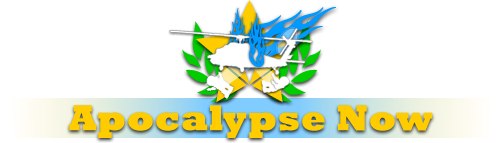
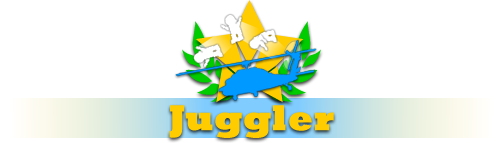
* Juggler: Grafik und Beschreibung eingefügt. * Script gesäubert.

Changed region(s): [[0.1195, 0.7273, 0.8665, 1.0], [0.3287, 0.0559, 0.6873, 0.7273]]

diff --git a/ModernCombatFINALTRY.c4d/Vehicles.c4d/BlackHawk.c4d/Script.c b/ModernCombatFINALTRY.c4d/Vehicles.c4d/BlackHawk.c4d/Script.c
@@ -1632,7 +1632,7 @@ protected func TimerCall()
     {
       if(GetOwner(pClonk) != NO_OWNER && GetOwner() != NO_OWNER && !Hostile(GetOwner(), GetOwner(pClonk)))
         continue;
-      
+
       var rotoreffect = GetEffect("RotorHit", pClonk);
 
       if(rotoreffect && EffectVar(0, pClonk, rotoreffect))
@@ -1658,14 +1658,14 @@ protected func TimerCall()
       Sound("BKHK_RotorHit*.ogg", false, pClonk);
       //Cooldown
       if(!rotoreffect)
-        AddEffect("RotorHit", pClonk, 1, 20, this, GetID(this)); 
+        AddEffect("RotorHit", pClonk, 1, 20, this, GetID(this));
       else
       {
-	EffectVar(0, pClonk, rotoreffect) = 1;
-	EffectVar(1, pClonk, rotoreffect)++;
+        EffectVar(0, pClonk, rotoreffect) = 1;
+        EffectVar(1, pClonk, rotoreffect)++;
 
-	//Achievement-Fortschritt (Juggler)
-	if(EffectVar(1, pClonk, rotoreffect) >= 3)
+        //Achievement-Fortschritt (Juggler)
+        if(EffectVar(1, pClonk, rotoreffect) >= 3)
           if(GetPilot() && (pClonk->~IsClonk()))
             DoAchievementProgress(1, AC58, GetController(GetPilot()));
       }
@@ -1738,13 +1738,15 @@ protected func TimerCall()
   }
 }
 
-public func FxRotorHitStart(object pTarget, int iEffectNumber) {
+public func FxRotorHitStart(object pTarget, int iEffectNumber)
+{
   EffectVar(0, pTarget, iEffectNumber) = 1; // Cooldown
   EffectVar(1, pTarget, iEffectNumber) = 1; // Number of rotor hits
   return 1;
 }
 
-public func FxRotorHitTimer(object pTarget, int iEffectNumber, int iEffectTime) {
+public func FxRotorHitTimer(object pTarget, int iEffectNumber, int iEffectTime)
+{
   EffectVar(0, pTarget, iEffectNumber) = 0;
   if(!pTarget || !(pTarget->~IsClonk()))
     return -1;

diff --git a/ModernCombatFINALTRY.c4d/System.c4g/Overload-Fading.c b/ModernCombatFINALTRY.c4d/System.c4g/Overload-Fading.c
@@ -1,16 +1,16 @@
 /* Fade-Effekte */
 
-//Verbesserter Einblendeffekt.
+//Verbesserte Ein- und Ausblendeffekte.
 
 #strict 2
 
 
-/* Jetzt wirklich keinen Frame sichtbar */
-
-global func FadeIn(object pObject, int level) {
+global func FadeIn(object pObject, int level)
+{
   return FadeIn4K(level, pObject);
 }
 
-global func FadeOut(object pObject, int level) {
+global func FadeOut(object pObject, int level)
+{
   return FadeOut4K(level, pObject);
 }
